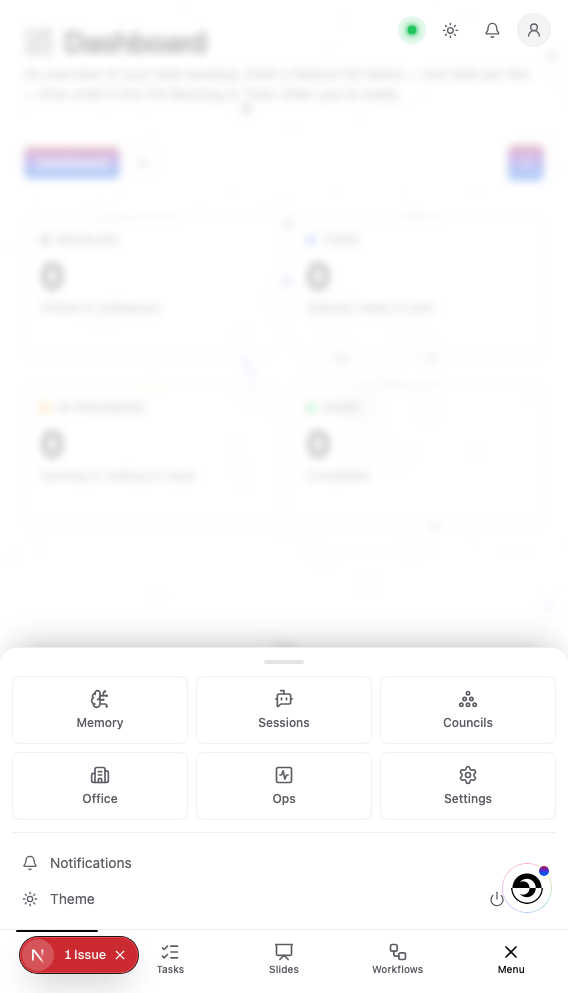
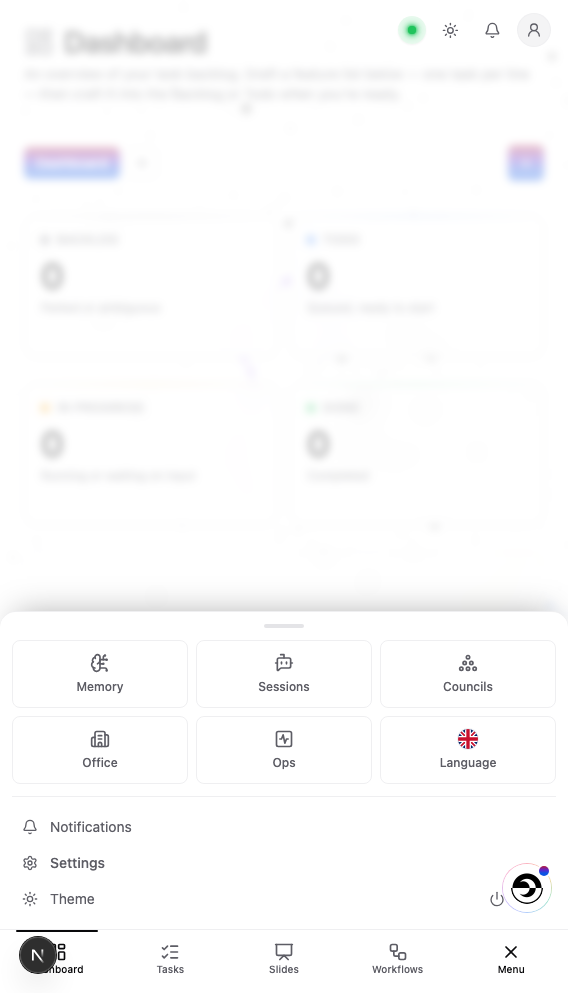
feat(shell,web): Settings above the lock, locale picker in its old cell
Reorders the mobile `More` sheet to mirror the desktop rail's footer, which
already runs language → Settings → lock:

- Settings leaves the destination grid for a full-width row directly above the
  theme/lock row.
- The cell it vacated takes a locale picker. `<AppMobileNav>` gains a `tiles`
  slot (surfaced as `AppFrame`'s `mobileTiles`) rather than the shell learning
  what a locale is — it reserves the cell, the host fills it.
- New `<LocaleTile>` in web: tile-shaped, since the rail's `<LanguageSwitcher>`
  is a left-aligned row whose flyout anchors to the right of the icon rail and
  has nowhere to go from a three-column grid. It shares the rail's option list
  (`<LocaleOptions>`, now exported) so the two triggers can't drift, and
  portals it to the body — the sheet is an `overflow-y-auto` scroll container,
  so an in-flow drop-up would be clipped at its edge.

Changed region(s): [[0.0599, 0.5932, 0.9577, 0.8741], [0.0299, 0.9366, 0.2394, 0.999], [0.0299, 0.8117, 0.0599, 0.8741]]

diff --git a/packages/web/components/locale-tile.tsx b/packages/web/components/locale-tile.tsx
@@ -1,0 +1,132 @@
+'use client';
+
+import { useEffect, useRef, useState } from 'react';
+import { createPortal } from 'react-dom';
+import { useTranslations } from 'next-intl';
+import { SUPPORTED_LOCALES, type Locale } from '@midnite/shared';
+
+import { cn } from '@/lib/utils';
+import { LocaleOptions } from '@/components/language-switcher';
+import { LocaleFlag } from '@/components/locale-flag';
+
+/** Ties the trigger's `aria-controls` to the portalled list. */
+const LIST_ID = 'mobile-locale-options';
+
+/**
+ * The locale picker as a **tile**, for the mobile `More` sheet's destination grid
+ * — the cell Settings used to hold before it moved down to sit above the Lock
+ * button (mirroring the desktop rail's footer order: language, Settings, lock).
+ *
+ * A tile, not the rail's `<LanguageSwitcher>`: that one is a left-aligned
+ * full-width row with a flyout anchored to the right of the icon rail, which has
+ * nowhere to go from a cell in a three-column grid. The option list itself is
+ * shared (`<LocaleOptions>`) so the two triggers can't drift apart.
+ *
+ * The list is portalled to the body with fixed positioning — the sheet is an
+ * `overflow-y-auto` scroll container, so an in-flow drop-up would be clipped at
+ * its edge — and anchored above the tab bar rather than to the tile, so it never
+ * lands off-screen from the third column.
+ */
+export function LocaleTile({
+  locale,
+  onSelect,
+}: {
+  locale: Locale;
+  onSelect: (locale: Locale) => void;
+}) {
+  const t = useTranslations('nav');
+  const [open, setOpen] = useState(false);
+  const triggerRef = useRef<HTMLButtonElement>(null);
+
+  const label = t('footer.language');
+  const native =
+    SUPPORTED_LOCALES.find((l) => l.code === locale)?.nativeLabel ?? locale;
+
+  return (
+    <>
+      <button
+        ref={triggerRef}
+        type="button"
+        onClick={() => setOpen((v) => !v)}
+        aria-haspopup="listbox"
+        aria-expanded={open}
+        aria-controls={LIST_ID}
+        aria-label={`${label}: ${native}`}
+        className={cn(
+          'flex flex-col items-center justify-center gap-1.5 rounded-lg border p-3 text-xs font-medium transition-colors',
+          open
+            ? 'border-transparent bg-accent text-accent-foreground'
+            : 'border-border/60 text-muted-foreground hover:bg-accent/60 hover:text-foreground',
+        )}
+      >
+        <LocaleFlag locale={locale} className="h-5 w-5" />
+        <span className="max-w-full truncate">{label}</span>
+      </button>
+      {open ? (
+        <LocaleSheet
+          locale={locale}
+          label={label}
+          onChoose={(next) => {
+            onSelect(next);
+            setOpen(false);
+          }}
+          onClose={() => {
+            setOpen(false);
+            triggerRef.current?.focus();
+          }}
+        />
+      ) : null}
+    </>
+  );
+}
+
+/** The portalled option list, floated above the mobile tab bar. */
+function LocaleSheet({
+  locale,
+  label,
+  onChoose,
+  onClose,
+}: {
+  locale: Locale;
+  label: string;
+  onChoose: (locale: Locale) => void;
+  onClose: () => void;
+}) {
+  const ref = useRef<HTMLUListElement>(null);
+
+  useEffect(() => {
+    const onPointer = (e: PointerEvent) => {
+      if (!ref.current?.contains(e.target as Node)) onClose();
+    };
+    const onKey = (e: KeyboardEvent) => {
+      // Escape dismisses this list *and* the `More` sheet behind it: the sheet's
+      // own handler is bound to `document` too, and `stopPropagation` can't stop a
+      // sibling listener on the same node. Getting out of both on one Escape is
+      // the reasonable reading of the key, so this doesn't fight it.
+      if (e.key === 'Escape') onClose();
+    };
+    document.addEventListener('pointerdown', onPointer);
+    document.addEventListener('keydown', onKey);
+    return () => {
+      document.removeEventListener('pointerdown', onPointer);
+      document.removeEventListener('keydown', onKey);
+    };
+  }, [onClose]);
+
+  if (typeof document === 'undefined') return null;
+
+  return createPortal(
+    <ul
+      ref={ref}
+      id={LIST_ID}
+      role="listbox"
+      aria-label={label}
+      // Above the tab bar's 4rem (plus the home indicator) and above every layer
+      // of the mobile chrome, which tops out at the bar's own z-40.
+      className="fixed inset-x-4 bottom-[calc(5rem+env(safe-area-inset-bottom))] z-[100] overflow-hidden rounded-lg border border-border bg-card p-1 shadow-lg"
+    >
+      <LocaleOptions locale={locale} onChoose={onChoose} />
+    </ul>,
+    document.body,
+  );
+}

diff --git a/packages/shell/src/nav/mobile-nav.tsx b/packages/shell/src/nav/mobile-nav.tsx
@@ -75,8 +75,19 @@ export type AppMobileNavProps = {
   linkComponent: NavLinkComponent;
   /** How many items get a dedicated tab before the rest spill into `More` (default 4). */
   maxTabs?: number;
-  /** Settings link rendered as a sheet tile (kept reachable even when tabs are full). */
+  /**
+   * Settings link, kept reachable even when every tab slot is taken. Rendered as
+   * a full-width row directly above the theme/lock row — the same order the
+   * desktop rail's footer uses (language, then Settings, then the lock).
+   */
   settings?: NavItem;
+  /**
+   * Extra tiles appended to the overflow grid, for a control the host owns that
+   * belongs with the destinations rather than the rows below them (`web` puts its
+   * locale picker here). Shell stays app-agnostic: it reserves the cell, the host
+   * decides what goes in it.
+   */
+  tiles?: ReactNode;
   /** Extra content in the `More` sheet, above the theme/lock row (e.g. a notification centre). */
   sheet?: ReactNode;
   /** Unread badge count on the `More` button (renders a dot when > 0). */
@@ -100,6 +111,7 @@ export function AppMobileNav({
   linkComponent: Link,
   maxTabs = DEFAULT_MAX_TABS,
   settings,
+  tiles,
   sheet,
   unread = 0,
   onLock,
@@ -181,28 +193,42 @@ export function AppMobileNav({
         )}
       >
         <div aria-hidden className="mx-auto mb-3 h-1 w-10 rounded-full bg-border" />
-        <div className="grid grid-cols-3 gap-2">
-          {overflow.map((item) => (
-            <DrawerTile
-              key={item.href}
-              item={item}
-              active={isActivePath(activePath, item.href)}
-              Link={Link}
-            />
-          ))}
-          {settings ? (
-            <DrawerTile
-              item={settings}
-              active={isActivePath(activePath, settings.href)}
-              Link={Link}
-            />
-          ) : null}
-        </div>
-        {sheet ? (
-          <>
-            <div className="my-3 h-px bg-border/60" />
-            {sheet}
-          </>
+        {overflow.length > 0 || tiles ? (
+          <div className="grid grid-cols-3 gap-2">
+            {overflow.map((item) => (
+              <DrawerTile
+                key={item.href}
+                item={item}
+                active={isActivePath(activePath, item.href)}
+                Link={Link}
+              />
+            ))}
+            {tiles}
+          </div>
+        ) : null}
+        {/* Everything below the destinations: the host slot, then Settings, then
+            the theme/lock row — one rule above the group when it has content. */}
+        {sheet || settings ? <div className="my-3 h-px bg-border/60" /> : null}
+        {sheet}
+        {settings ? (
+          <Link
+            href={settings.href}
+            aria-label={settings.label}
+            aria-current={isActivePath(activePath, settings.href) ? 'page' : undefined}
+            className={cn(
+              'flex h-9 w-full items-center gap-3 rounded-md px-2.5 text-sm font-medium transition-colors',
+              isActivePath(activePath, settings.href)
+                ? 'bg-accent text-accent-foreground'
+                : 'text-muted-foreground hover:bg-accent/60 hover:text-foreground',
+            )}
+          >
+            {settings.icon ? (
+              <span className="flex h-4 w-4 shrink-0 items-center justify-center [&>svg]:h-4 [&>svg]:w-4">
+                {settings.icon}
+              </span>
+            ) : null}
+            <span className="min-w-0 truncate">{settings.label}</span>
+          </Link>
         ) : null}
         <div className="flex items-center justify-between gap-2">
           <ThemeToggle expanded labels={copy.themeToggle} />

diff --git a/packages/web/components/locale-tile.test.tsx b/packages/web/components/locale-tile.test.tsx
@@ -1,0 +1,58 @@
+import { fireEvent, screen, within } from '@testing-library/react';
+import { describe, expect, it, vi } from 'vitest';
+
+import { renderWithIntl } from '../vitest.render-intl';
+import { LocaleTile } from './locale-tile';
+
+describe('LocaleTile', () => {
+  it('shows the translated Language label with the native language in the accessible name', () => {
+    renderWithIntl(<LocaleTile locale="de-DE" onSelect={() => {}} />);
+    const trigger = screen.getByRole('button', { name: /Language: Deutsch/ });
+    expect(trigger).toHaveAttribute('aria-haspopup', 'listbox');
+    expect(trigger).toHaveAttribute('aria-expanded', 'false');
+    // The visible tile label is the word "Language" — the locale code belongs to
+    // the rail's switcher, which has room for it.
+    expect(within(trigger).getByText('Language')).toBeInTheDocument();
+  });
+
+  it('opens the shared option list and reports the chosen locale', () => {
+    const onSelect = vi.fn();
+    renderWithIntl(<LocaleTile locale="en-GB" onSelect={onSelect} />);
+
+    expect(screen.queryByRole('listbox')).not.toBeInTheDocument();
+    fireEvent.click(screen.getByRole('button', { name: /Language:/ }));
+
+    const list = screen.getByRole('listbox');
+    expect(screen.getAllByRole('option')).toHaveLength(4);
+    expect(screen.getByRole('option', { selected: true })).toHaveTextContent('English');
+
+    fireEvent.click(within(list).getByRole('option', { name: /Français/ }));
+    expect(onSelect).toHaveBeenCalledWith('fr-FR');
+    // Choosing dismisses the list.
+    expect(screen.queryByRole('listbox')).not.toBeInTheDocument();
+  });
+
+  it('closes on Escape and on an outside pointer press', () => {
+    renderWithIntl(<LocaleTile locale="en-GB" onSelect={() => {}} />);
+    const trigger = screen.getByRole('button', { name: /Language:/ });
+
+    fireEvent.click(trigger);
+    expect(screen.getByRole('listbox')).toBeInTheDocument();
+    fireEvent.keyDown(document, { key: 'Escape' });
+    expect(screen.queryByRole('listbox')).not.toBeInTheDocument();
+
+    fireEvent.click(trigger);
+    expect(screen.getByRole('listbox')).toBeInTheDocument();
+    fireEvent.pointerDown(document.body);
+    expect(screen.queryByRole('listbox')).not.toBeInTheDocument();
+  });
+
+  it('portals the list to the body so the sheet cannot clip it', () => {
+    const { container } = renderWithIntl(<LocaleTile locale="en-GB" onSelect={() => {}} />);
+    fireEvent.click(screen.getByRole('button', { name: /Language:/ }));
+    // The sheet it renders inside is an `overflow-y-auto` scroll container, so an
+    // in-flow drop-up would be cut off at its edge.
+    expect(container.querySelector('[role="listbox"]')).toBeNull();
+    expect(screen.getByRole('listbox').closest('body')).toBe(document.body);
+  });
+});

diff --git a/packages/shell/src/app-frame.test.tsx b/packages/shell/src/app-frame.test.tsx
@@ -197,7 +197,7 @@ describe('AppFrame', () => {
       expect(sheet.getByRole('link', { name: 'Echo' })).toBeInTheDocument();
     });
 
-    it('renders a Settings tile and Lock button in the More sheet', () => {
+    it('renders Settings directly above the Lock button in the More sheet', () => {
       const onLock = vi.fn();
       render(
         <AppFrame
@@ -211,8 +211,35 @@ describe('AppFrame', () => {
       );
       fireEvent.click(mobile().getByRole('button', { name: 'Menu' }));
       const sheet = within(screen.getByRole('dialog', { name: 'Menu' }));
-      expect(sheet.getByRole('link', { name: 'Settings' })).toBeInTheDocument();
-      expect(sheet.getByRole('button', { name: /Lock/ })).toBeInTheDocument();
+      const settings = sheet.getByRole('link', { name: 'Settings' });
+      const lock = sheet.getByRole('button', { name: /Lock/ });
+      expect(settings).toBeInTheDocument();
+      expect(lock).toBeInTheDocument();
+
+      // Settings sits below the destination grid and above the theme/lock row —
+      // it used to be a tile *in* the grid. DOCUMENT_POSITION_FOLLOWING means
+      // `lock` comes after `settings` in document order.
+      expect(settings.compareDocumentPosition(lock) & Node.DOCUMENT_POSITION_FOLLOWING).toBeTruthy();
+      const grid = screen.getByRole('dialog', { name: 'Menu' }).querySelector('.grid');
+      expect(grid?.contains(settings)).toBe(false);
+    });
+
+    it('appends host-provided tiles to the More sheet grid', () => {
+      render(
+        <AppFrame
+          nav={SIX}
+          activePath="/"
+          settings={{ href: '/settings', label: 'Settings' }}
+          mobileTiles={<button type="button">Language</button>}
+        >
+          <p>content</p>
+        </AppFrame>,
+      );
+      fireEvent.click(mobile().getByRole('button', { name: 'Menu' }));
+      const dialog = screen.getByRole('dialog', { name: 'Menu' });
+      const tile = within(dialog).getByRole('button', { name: 'Language' });
+      // In the grid, where Settings used to be.
+      expect(dialog.querySelector('.grid')?.contains(tile)).toBe(true);
     });
 
     it('shows an unread dot on the More button when mobileUnread > 0', () => {

diff --git a/packages/shell/src/app-frame.tsx b/packages/shell/src/app-frame.tsx
@@ -86,11 +86,13 @@ export type AppFrameProps = {
   mobileMaxTabs?: number;
   /** Extra content in the mobile `More` sheet, above the theme/lock row. */
   mobileSheet?: ReactNode;
+  /** Extra tiles appended to the mobile `More` sheet's grid (e.g. a locale picker). */
+  mobileTiles?: ReactNode;
   /** Unread badge count on the mobile `More` button (dot when > 0). */
   mobileUnread?: number;
   /** Mobile `More`-sheet Lock button handler. */
   onLock?: () => void;
-  /** Settings link rendered as a mobile-sheet tile (the rail's Settings lives in `nav.footer`). */
+  /** Settings link — a mobile-sheet row above the lock (the rail's lives in `nav.footer`). */
   settings?: NavItem;
   /** Right-aligned header content (status, notifications, avatar) — rendered only when provided. */
   headerActions?: ReactNode;
@@ -203,6 +205,7 @@ export function AppFrame({
   onToggleSection,
   mobileMaxTabs,
   mobileSheet,
+  mobileTiles,
   mobileUnread,
   onLock,
   settings,
@@ -402,6 +405,7 @@ export function AppFrame({
         maxTabs={mobileMaxTabs}
         settings={settings}
         sheet={mobileSheet}
+        tiles={mobileTiles}
         unread={mobileUnread}
         onLock={onLock}
         labels={mobileLabels}

diff --git a/packages/web/components/app-shell-client.tsx b/packages/web/components/app-shell-client.tsx
@@ -22,6 +22,7 @@ import { type Locale, type WindowChromeBridge } from '@midnite/shared';
 import { ReleaseNotesPopover } from '@/components/update/release-notes-popover';
 import { featuresToNav } from '@/lib/nav-config';
 import { LanguageSwitcher } from '@/components/language-switcher';
+import { LocaleTile } from '@/components/locale-tile';
 import { setLocalePreference } from '@/lib/locale-preference';
 import { useLocalStorage } from '@/lib/use-local-storage';
 import {
@@ -256,6 +257,11 @@ export function AppShellClient({ children }: { children: ReactNode }) {
         onLock={lock}
         settings={{ href: '/settings', label: tNav('footer.settings'), icon: <Settings aria-hidden /> }}
         mobileSheet={<NotificationCenter expanded />}
+        mobileTiles={
+          // The grid cell Settings vacated when it moved above the Lock button —
+          // same order as the rail footer above (language, Settings, lock).
+          <LocaleTile locale={locale} onSelect={(next) => setLocalePreference(setSettings, next)} />
+        }
         mobileUnread={unread}
         titleBar={titleBarSlot}
         navLabel={tNav('rail.label')}

diff --git a/packages/web/components/language-switcher.tsx b/packages/web/components/language-switcher.tsx
@@ -105,8 +105,12 @@ export function LanguageSwitcher({ expanded, locale, onSelect }: LanguageSwitche
   );
 }
 
-/** The option rows — native label, then check, with the locale code far right. */
-function LocaleOptions({ locale, onChoose }: { locale: Locale; onChoose: (locale: Locale) => void }) {
+/**
+ * The option rows — native label, then check, with the locale code far right.
+ * Exported so the mobile `More`-sheet tile (`<LocaleTile>`) presents the same
+ * list from a different trigger, rather than restating it.
+ */
+export function LocaleOptions({ locale, onChoose }: { locale: Locale; onChoose: (locale: Locale) => void }) {
   return (
     <>
       {SUPPORTED_LOCALES.map((l) => {
